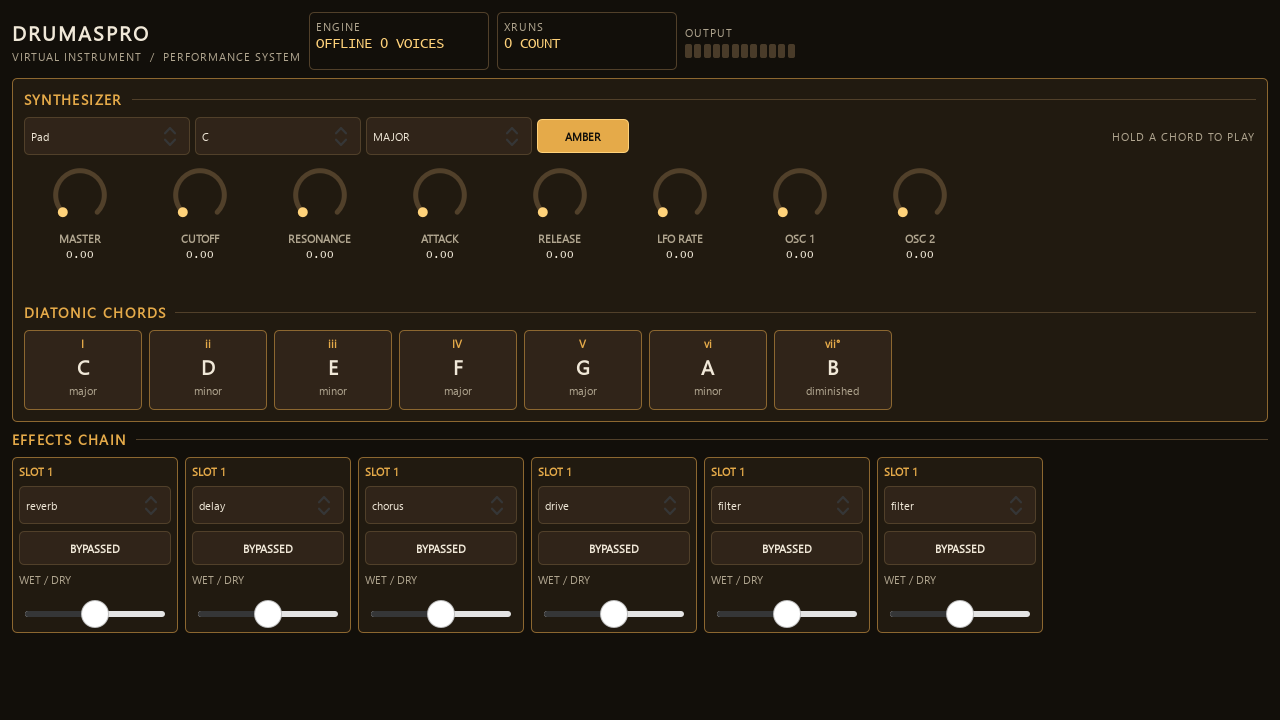
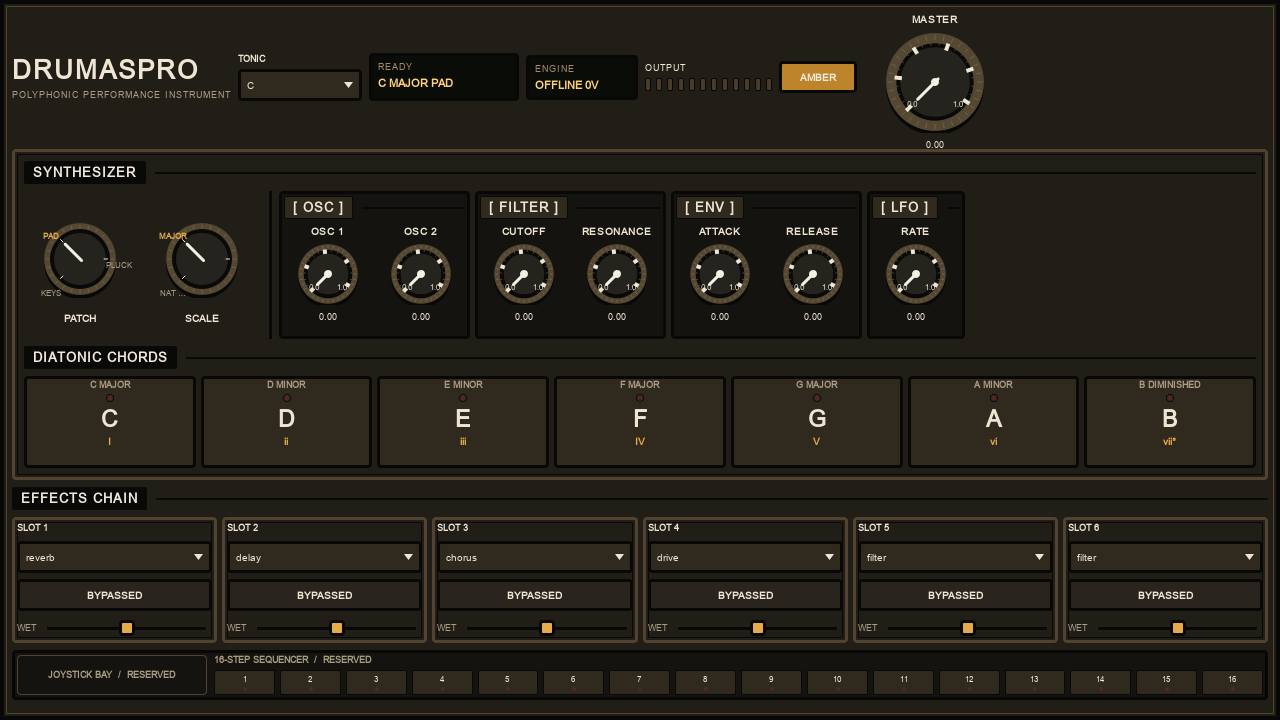
test(ui): cover rotary controls and both skin sizes

Changed region(s): [[0.0, 0.0, 1.0, 0.9778], [0.75, 0.4278, 0.7812, 0.4583], [0.25, 0.0306, 0.2812, 0.0611]]

diff --git a/tests/ui/test_ui.cpp b/tests/ui/test_ui.cpp
@@ -1,8 +1,7 @@
 #include <QDir>
 #include <QCoreApplication>
-#include <QGuiApplication>
-#include <QFont>
 #include <QFontDatabase>
+#include <QGuiApplication>
 #include <QFileInfo>
 #include <QKeyEvent>
 #include <QQuickStyle>
@@ -129,14 +128,17 @@ private Q_SLOTS:
     }
 
     void qmlFitsRequiredWindowSizesAndCapturesBothThemes() {
-        const QDir fontDirectory(qEnvironmentVariable("WINDIR") + QStringLiteral("/Fonts"));
+        const QDir fontDirectory(
+            qEnvironmentVariable("WINDIR") + QStringLiteral("/Fonts"));
         for (const QString& fileName :
-             {QStringLiteral("segoeui.ttf"), QStringLiteral("lucon.ttf")}) {
+             {QStringLiteral("arial.ttf"), QStringLiteral("arialn.ttf"),
+              QStringLiteral("segoeui.ttf"), QStringLiteral("lucon.ttf")}) {
             const QString fontPath = fontDirectory.filePath(fileName);
             if (QFileInfo::exists(fontPath)) {
                 QVERIFY(QFontDatabase::addApplicationFont(fontPath) >= 0);
             }
         }
+
         drumas::ui::EngineBridge bridge;
         QQmlApplicationEngine qml;
         qml.rootContext()->setContextProperty(QStringLiteral("engineBridge"), &bridge);
@@ -174,6 +176,38 @@ private Q_SLOTS:
                         QStringLiteral("drumaspro-default-960x600.png")));
         QVERIFY(capture(QSize(1280, 720), true,
                         QStringLiteral("drumaspro-amber-1280x720.png")));
+        QVERIFY(capture(QSize(960, 600), true,
+                        QStringLiteral("drumaspro-amber-960x600.png")));
+    }
+
+    void rotarySelectorsSnapOnClickAndKeyboard() {
+        drumas::ui::EngineBridge bridge;
+        QQmlApplicationEngine qml;
+        qml.rootContext()->setContextProperty(QStringLiteral("engineBridge"), &bridge);
+        qml.loadFromModule("DrumasProTests", "Main");
+        QVERIFY2(!qml.rootObjects().isEmpty(), "QML Main component failed to load");
+
+        auto* window = qobject_cast<QQuickWindow*>(qml.rootObjects().front());
+        QVERIFY(window != nullptr);
+        window->resize(1280, 720);
+        window->show();
+        QTest::qWait(100);
+
+        auto* patchSelector =
+            findVisualItem(window->contentItem(), QStringLiteral("patchSelector"));
+        QVERIFY(patchSelector != nullptr);
+        QCOMPARE(patchSelector->property("currentIndex").toInt(), 0);
+
+        const QPoint center = patchSelector
+            ->mapToScene(QPointF(patchSelector->width() / 2,
+                                 patchSelector->height() / 2))
+            .toPoint();
+        QTest::mouseClick(window, Qt::LeftButton, Qt::NoModifier, center);
+        QCOMPARE(patchSelector->property("currentIndex").toInt(), 1);
+
+        patchSelector->forceActiveFocus();
+        QTest::keyClick(window, Qt::Key_Right);
+        QCOMPARE(patchSelector->property("currentIndex").toInt(), 2);
     }
 
     void chordButtonsAndKeyboardKeysSubmitMatchingHoldReleaseBatches() {
@@ -204,11 +238,13 @@ private Q_SLOTS:
             sink.batches.clear();
             QTest::mousePress(window, Qt::LeftButton, Qt::NoModifier, buttonPosition);
             QCOMPARE(sink.batches.size(), std::size_t{1});
+            QVERIFY(button->property("chordActive").toBool());
             const auto buttonPressBatch = sink.batches.back();
             QCOMPARE(buttonPressBatch.size(), std::size_t{3});
             QCOMPARE(buttonPressBatch.front().type, drumas::core::CommandType::NoteOn);
             QTest::mouseRelease(window, Qt::LeftButton, Qt::NoModifier, buttonPosition);
             QCOMPARE(sink.batches.size(), std::size_t{2});
+            QVERIFY(!button->property("chordActive").toBool());
             const auto buttonReleaseBatch = sink.batches.back();
             QCOMPARE(buttonReleaseBatch.size(), std::size_t{3});
             QCOMPARE(buttonReleaseBatch.front().type, drumas::core::CommandType::NoteOff);
@@ -219,6 +255,7 @@ private Q_SLOTS:
             const auto key = static_cast<Qt::Key>(Qt::Key_1 + row);
             QTest::keyPress(window, key);
             QCOMPARE(sink.batches.size(), std::size_t{1});
+            QVERIFY(button->property("chordActive").toBool());
             const auto keyPressBatch = sink.batches.back();
             if (row == 0) {
                 QKeyEvent autoRepeat(QEvent::KeyPress, key, Qt::NoModifier,
@@ -228,6 +265,7 @@ private Q_SLOTS:
             }
             QTest::keyRelease(window, key);
             QCOMPARE(sink.batches.size(), std::size_t{2});
+            QVERIFY(!button->property("chordActive").toBool());
             const auto keyReleaseBatch = sink.batches.back();
 
             compareCommandBatches(buttonPressBatch, keyPressBatch);
